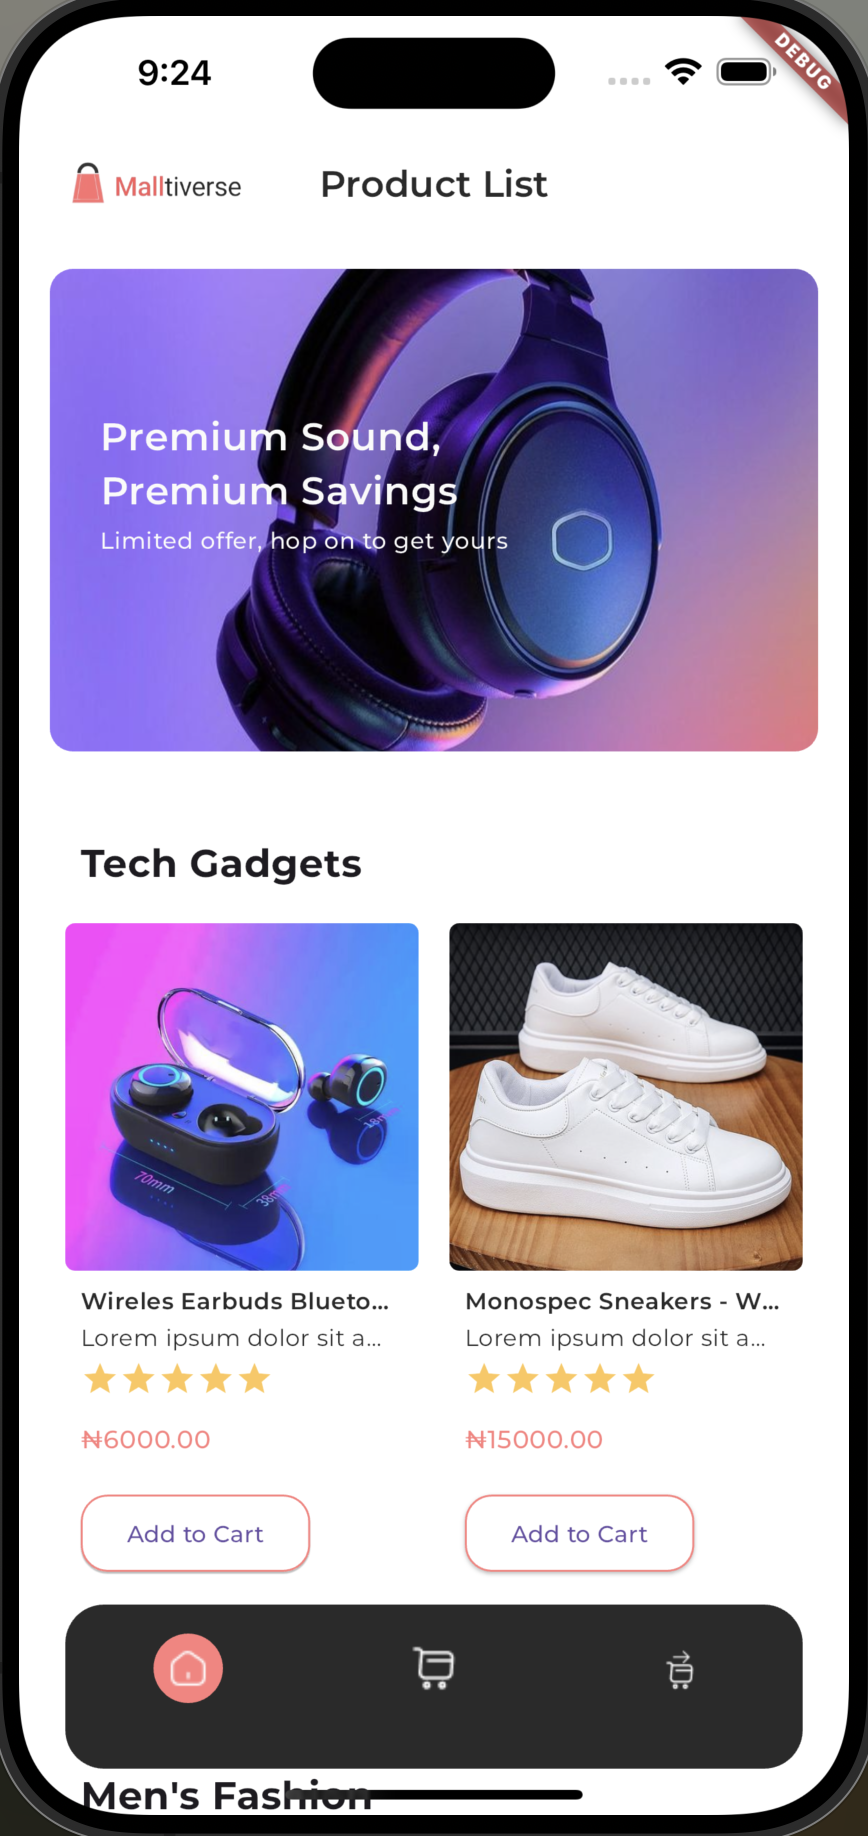
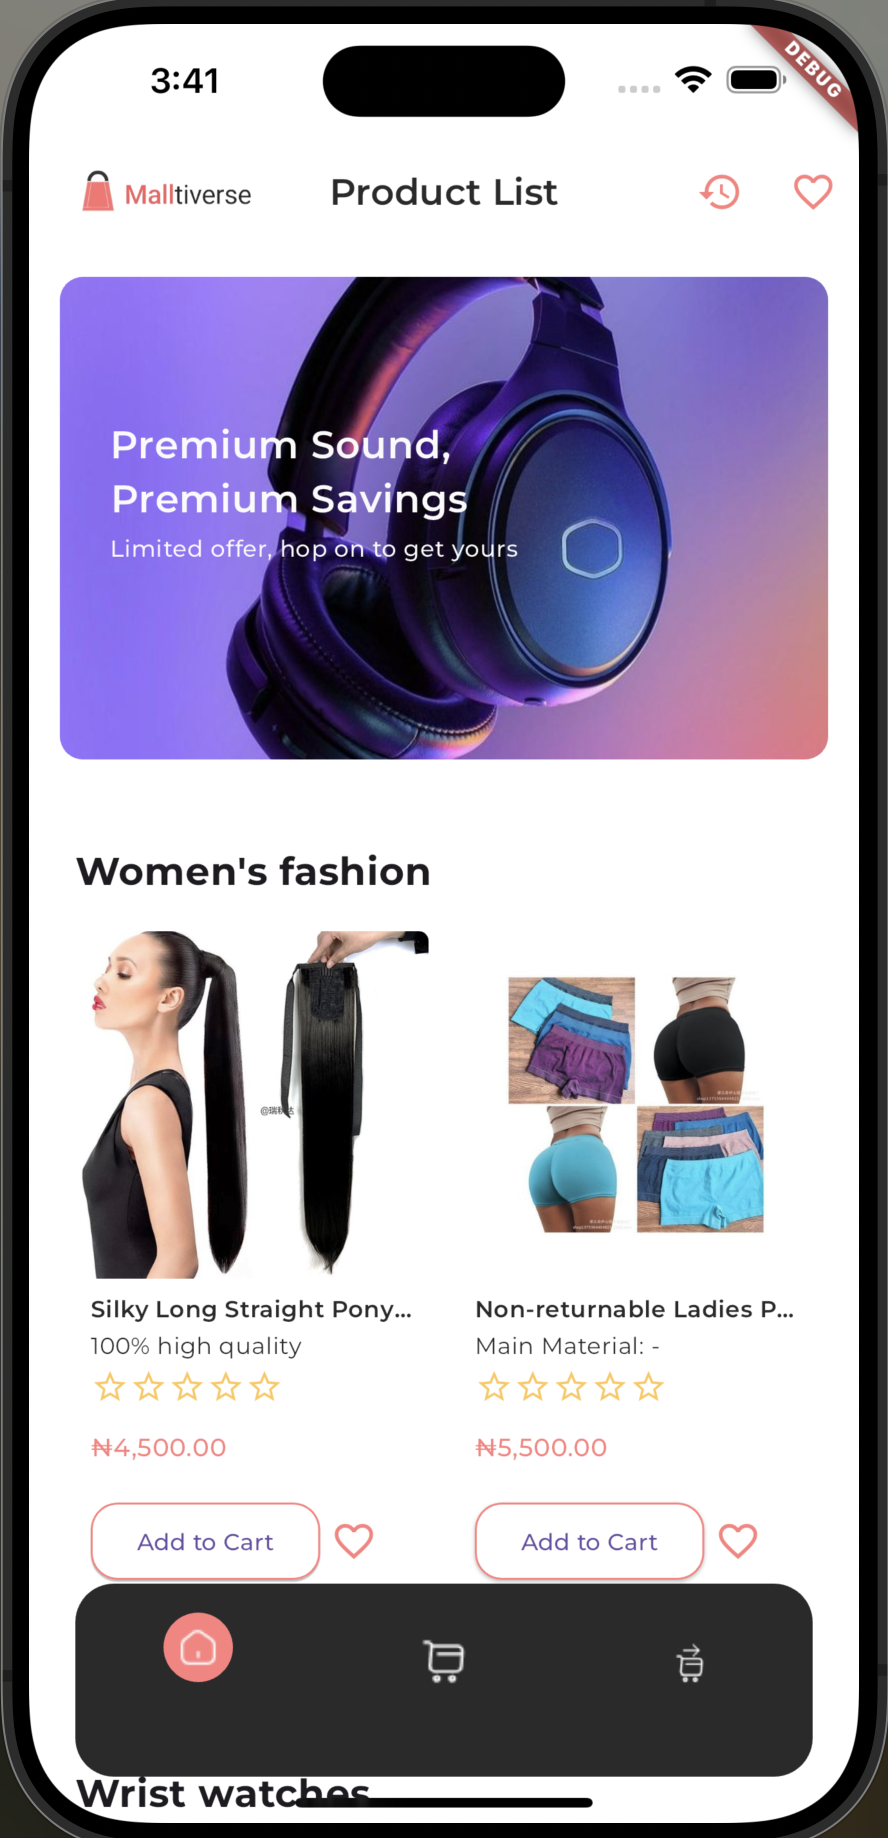
Readme: update app screenshots

diff --git a/README.md b/README.md
@@ -8,14 +8,20 @@ HNG Shopping App is a Flutter application that allows users to browse and purcha
 - **Product Listing:** View detailed product listings including images, descriptions, ratings, and prices.
 - **Shopping Cart:** Add products to the cart and proceed to checkout.
 - **Checkout Process:** Complete the purchase securely with integrated payment methods.
+- **Order History:** View a detailed history of all past orders, including order dates, items purchased, delivery & pickup information, and total amounts.
+- **Wishlist:** Add products to a wishlist for future reference, and view and manage your wishlist items.
 
 ## Screenshots
 
 <img src="assets/screenshots/home.png" alt="Products Screen" width="300">
+<img src="assets/screenshots/product-details.png" alt="Products Details Screen" width="300">
 <img src="assets/screenshots/cart.png" alt="Cart Screen" width="300">
 <img src="assets/screenshots/checkout.png" alt="Checkout Screen" width="300">
 <img src="assets/screenshots/payment.png" alt="Payment Screen" width="300">
 <img src="assets/screenshots/success.png" alt="Payment Successful Screen" width="300">
+<img src="assets/screenshots/order-history.png" alt="Order History Screen" width="300">
+<img src="assets/screenshots/order-details.png" alt="Order Details Screen" width="300">
+<img src="assets/screenshots/wishlist.png" alt="WishList Screen" width="300">
 
 ## Technologies Used
 
